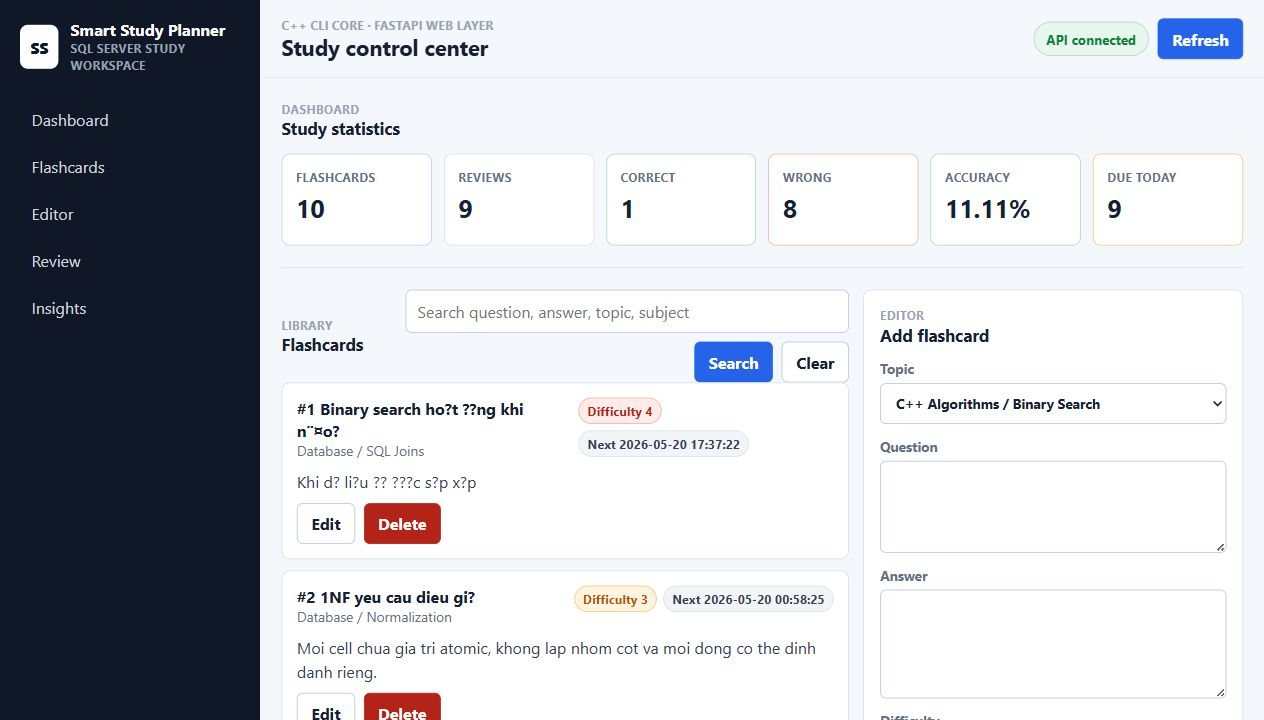
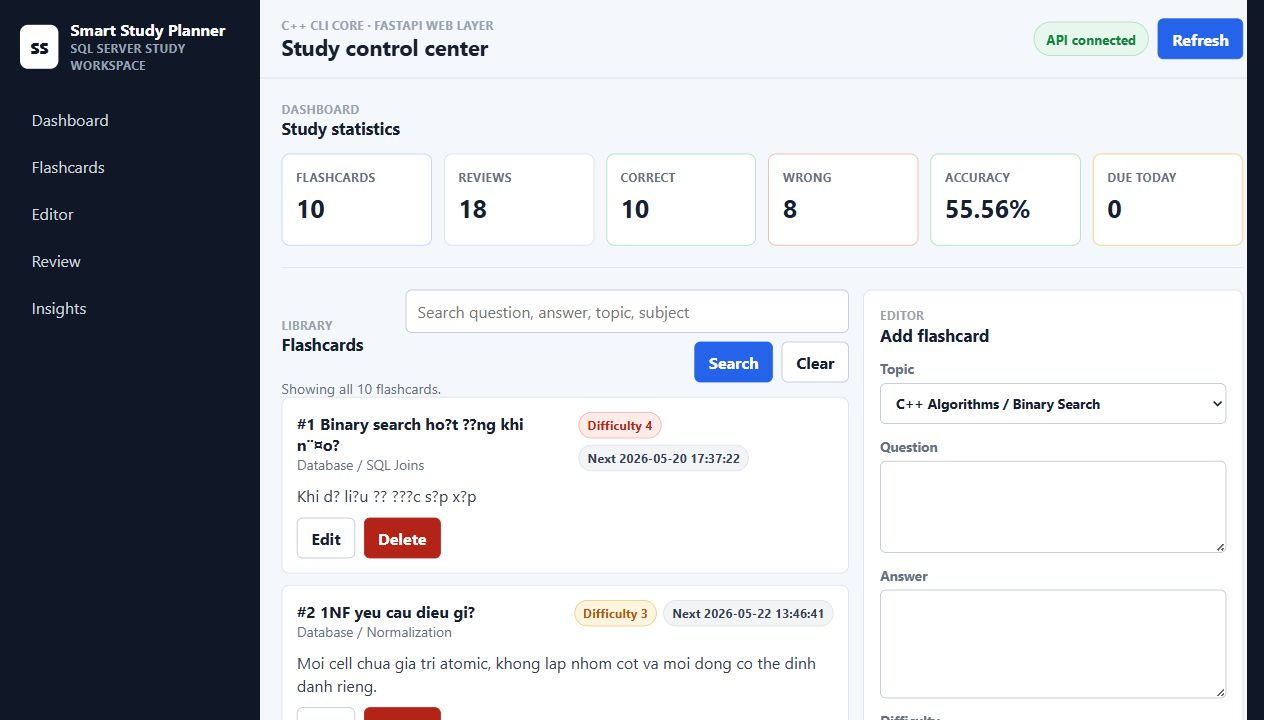
Fix web flashcard search

diff --git a/web/frontend/app.js b/web/frontend/app.js
@@ -23,6 +23,7 @@ const elements = {
   searchInput: document.querySelector("#searchInput"),
   searchButton: document.querySelector("#searchButton"),
   clearSearchButton: document.querySelector("#clearSearchButton"),
+  searchSummary: document.querySelector("#searchSummary"),
   flashcardList: document.querySelector("#flashcardList"),
   flashcardForm: document.querySelector("#flashcardForm"),
   editingId: document.querySelector("#editingId"),
@@ -66,6 +67,35 @@ function difficultyClass(difficulty) {
   if (difficulty <= 2) return "difficulty-low";
   if (difficulty >= 4) return "difficulty-high";
   return "difficulty-mid";
+}
+
+function normalizeSearchText(value) {
+  return String(value ?? "")
+    .normalize("NFD")
+    .replace(/[\u0300-\u036f]/g, "")
+    .toLowerCase()
+    .trim();
+}
+
+function visibleFlashcards() {
+  const keyword = normalizeSearchText(state.currentSearch);
+  if (!keyword) return state.flashcards;
+
+  return state.flashcards.filter((card) => {
+    const searchableText = normalizeSearchText(
+      [card.question, card.answer, card.topicName, card.subjectName].join(" ")
+    );
+    return searchableText.includes(keyword);
+  });
+}
+
+function renderSearchSummary(visibleCount) {
+  if (!state.currentSearch) {
+    elements.searchSummary.textContent = `Showing all ${state.flashcards.length} flashcards.`;
+    return;
+  }
+
+  elements.searchSummary.textContent = `Showing ${visibleCount} result${visibleCount === 1 ? "" : "s"} for "${state.currentSearch}".`;
 }
 
 function showToast(message, type = "info") {
@@ -259,13 +289,9 @@ async function loadDashboard() {
   setBusy(true);
   try {
     await checkHealth();
-    const flashcardUrl = state.currentSearch
-      ? `${api.flashcardSearch}?keyword=${encodeURIComponent(state.currentSearch)}`
-      : api.flashcards;
-
     const [stats, flashcards, topics, dueReviews, weakTopics] = await Promise.all([
       requestJson(api.statistics),
-      requestJson(flashcardUrl),
+      requestJson(api.flashcards),
       requestJson(api.topics),
       requestJson(api.dueReviews),
       requestJson(api.weakTopics),
@@ -273,8 +299,10 @@ async function loadDashboard() {
 
     state.flashcards = flashcards;
     state.topics = topics;
+    const filteredFlashcards = visibleFlashcards();
     renderStats(stats);
-    renderFlashcards(flashcards);
+    renderFlashcards(filteredFlashcards);
+    renderSearchSummary(filteredFlashcards.length);
     renderTopics(topics);
     renderDueReviews(dueReviews);
     renderWeakTopics(weakTopics);
@@ -371,13 +399,16 @@ async function saveReview(flashcardId, wasCorrect) {
 
 function searchFlashcards() {
   state.currentSearch = elements.searchInput.value.trim();
-  loadDashboard();
+  const filteredFlashcards = visibleFlashcards();
+  renderFlashcards(filteredFlashcards);
+  renderSearchSummary(filteredFlashcards.length);
 }
 
 function clearSearch() {
   state.currentSearch = "";
   elements.searchInput.value = "";
-  loadDashboard();
+  renderFlashcards(state.flashcards);
+  renderSearchSummary(state.flashcards.length);
 }
 
 elements.refreshButton.addEventListener("click", loadDashboard);
@@ -385,6 +416,12 @@ elements.searchButton.addEventListener("click", searchFlashcards);
 elements.clearSearchButton.addEventListener("click", clearSearch);
 elements.searchInput.addEventListener("keydown", (event) => {
   if (event.key === "Enter") searchFlashcards();
+});
+elements.searchInput.addEventListener("input", () => {
+  state.currentSearch = elements.searchInput.value.trim();
+  const filteredFlashcards = visibleFlashcards();
+  renderFlashcards(filteredFlashcards);
+  renderSearchSummary(filteredFlashcards.length);
 });
 elements.flashcardForm.addEventListener("submit", saveFlashcard);
 elements.cancelEditButton.addEventListener("click", resetForm);

diff --git a/web/frontend/index.html b/web/frontend/index.html
@@ -4,7 +4,7 @@
     <meta charset="UTF-8" />
     <meta name="viewport" content="width=device-width, initial-scale=1.0" />
     <title>Smart Study Planner</title>
-    <link rel="stylesheet" href="/static/styles.css" />
+    <link rel="stylesheet" href="/static/styles.css?v=search-fix" />
   </head>
   <body>
     <div class="app-shell">
@@ -61,6 +61,7 @@
                   <button id="clearSearchButton" class="secondary" type="button">Clear</button>
                 </div>
               </div>
+              <p id="searchSummary" class="search-summary">Showing all flashcards.</p>
               <div id="flashcardList" class="card-list" aria-live="polite"></div>
             </div>
 
@@ -132,6 +133,6 @@
 
     <div id="toast" class="toast hidden" role="status" aria-live="polite"></div>
 
-    <script src="/static/app.js"></script>
+    <script src="/static/app.js?v=search-fix"></script>
   </body>
 </html>

diff --git a/web/frontend/styles.css b/web/frontend/styles.css
@@ -340,6 +340,12 @@ main {
   min-width: 280px;
 }
 
+.search-summary {
+  color: var(--muted);
+  font-size: 0.88rem;
+  margin: -0.25rem 0 0;
+}
+
 .card-list,
 .review-list,
 .compact-list {
